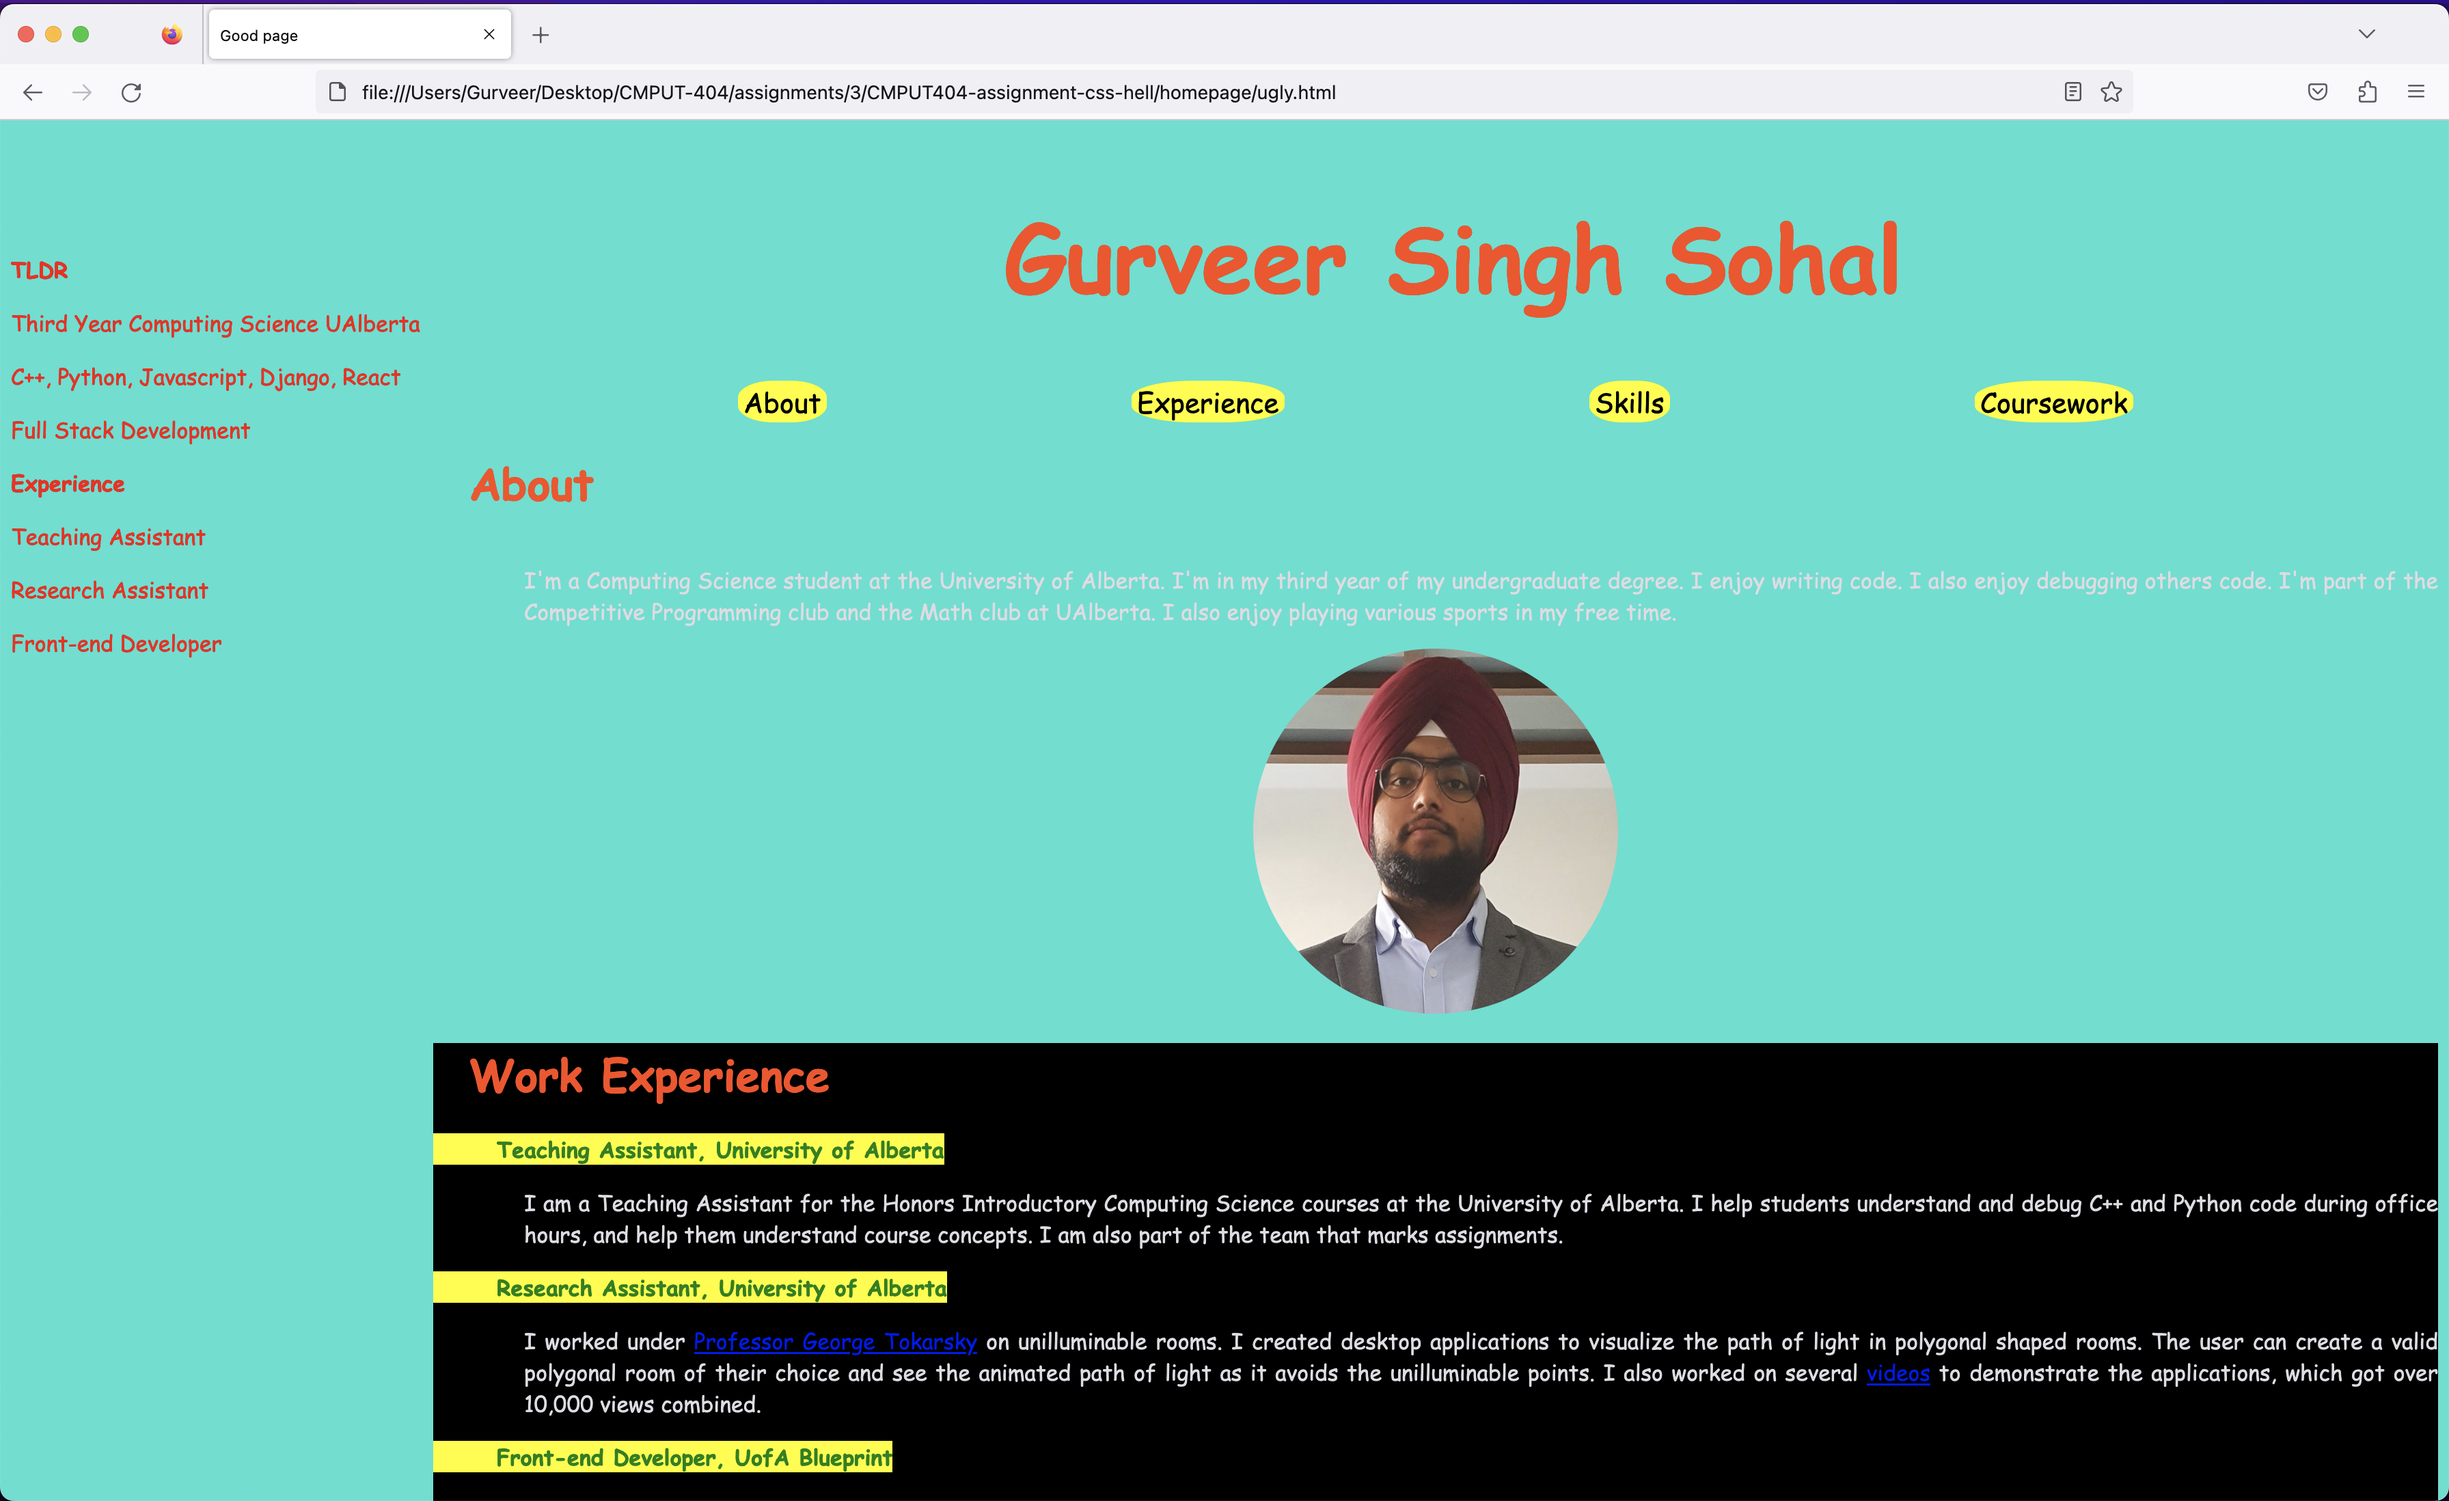
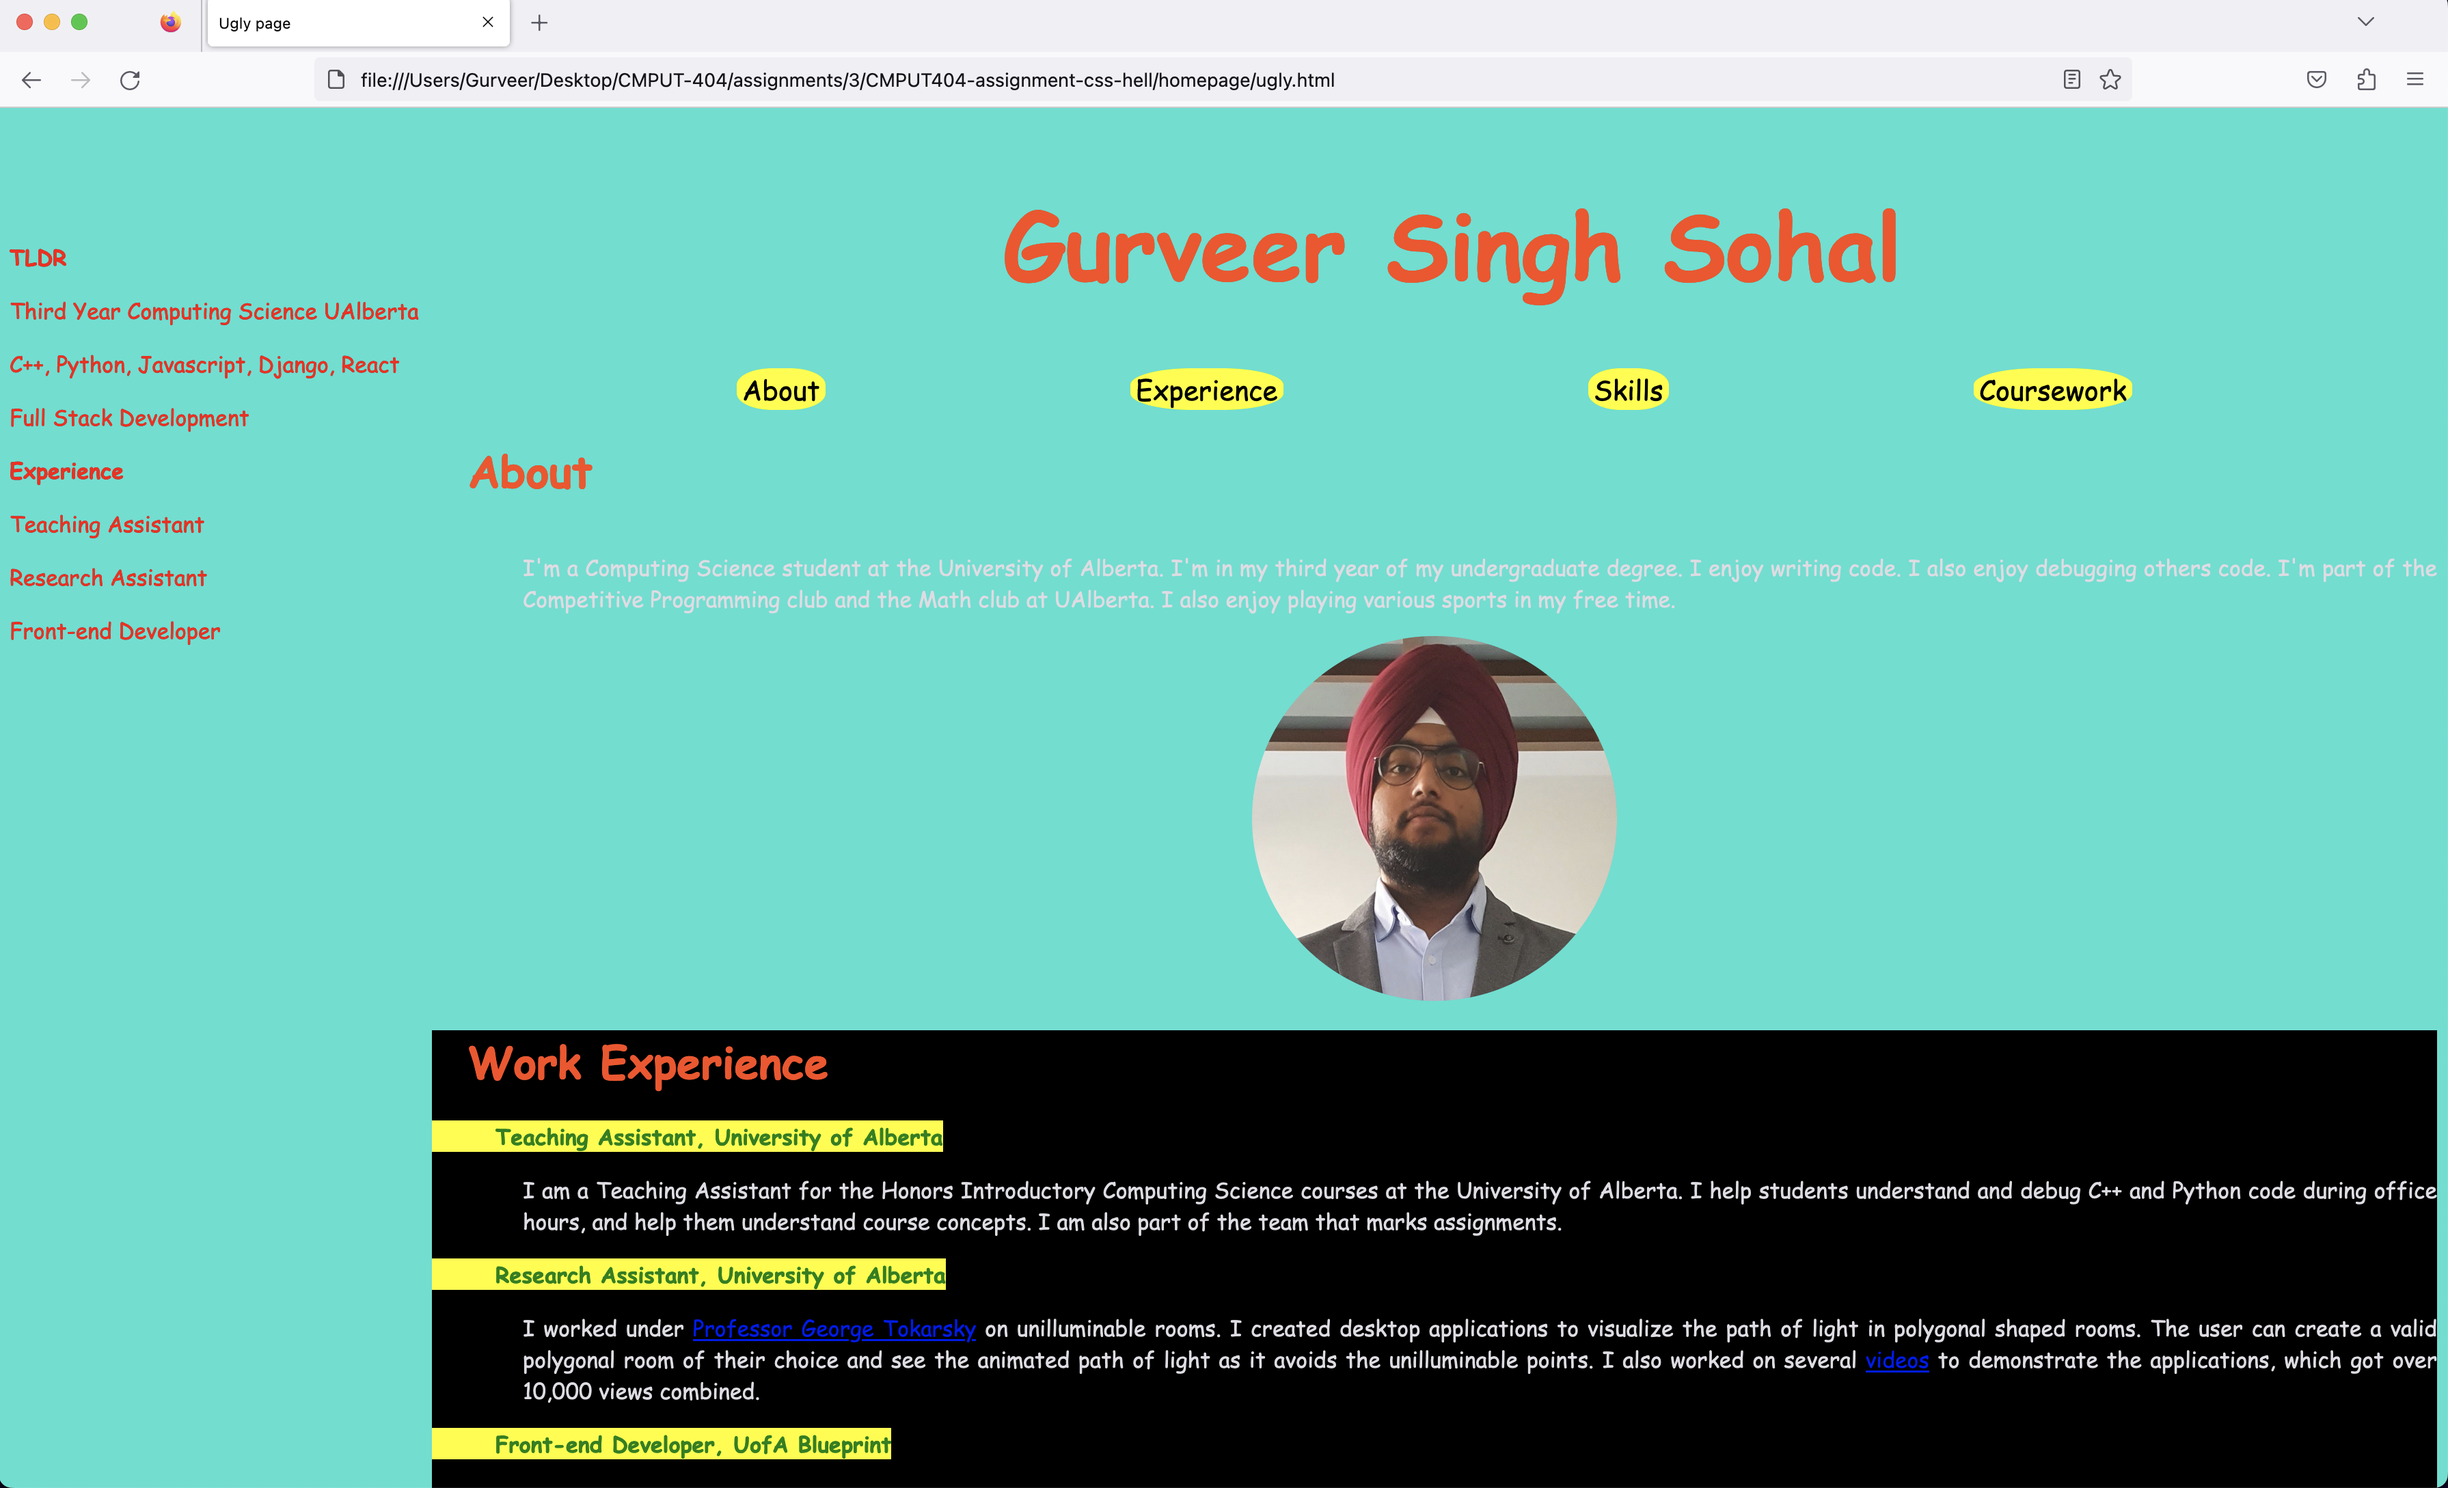
minor change

diff --git a/homepage/ugly.html b/homepage/ugly.html
@@ -17,7 +17,7 @@ limitations under the License.
 <html lang="en">
 <head>
     <meta charset="UTF-8">
-    <title>Good page</title>
+    <title>Ugly page</title>
     <style>
         * {
             font-family: "Comic Sans MS", "Comic Sans", cursive;
